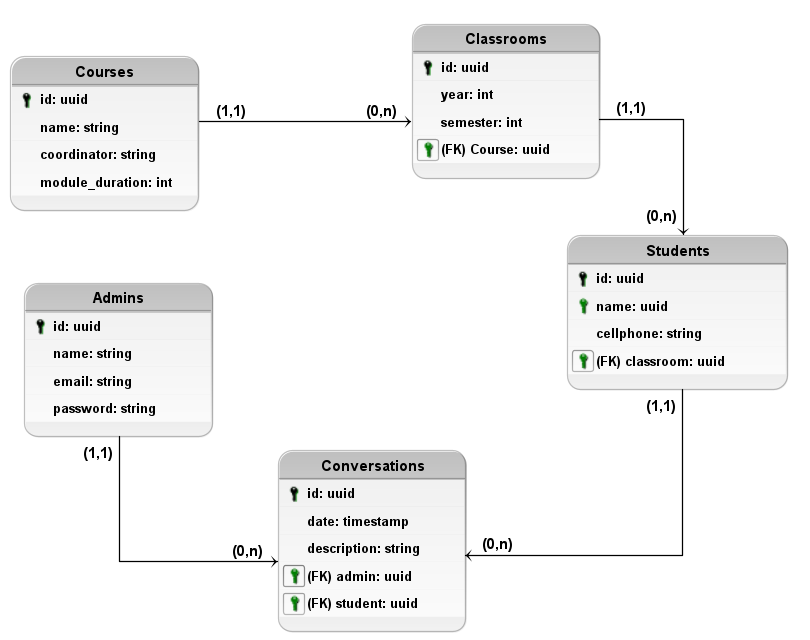
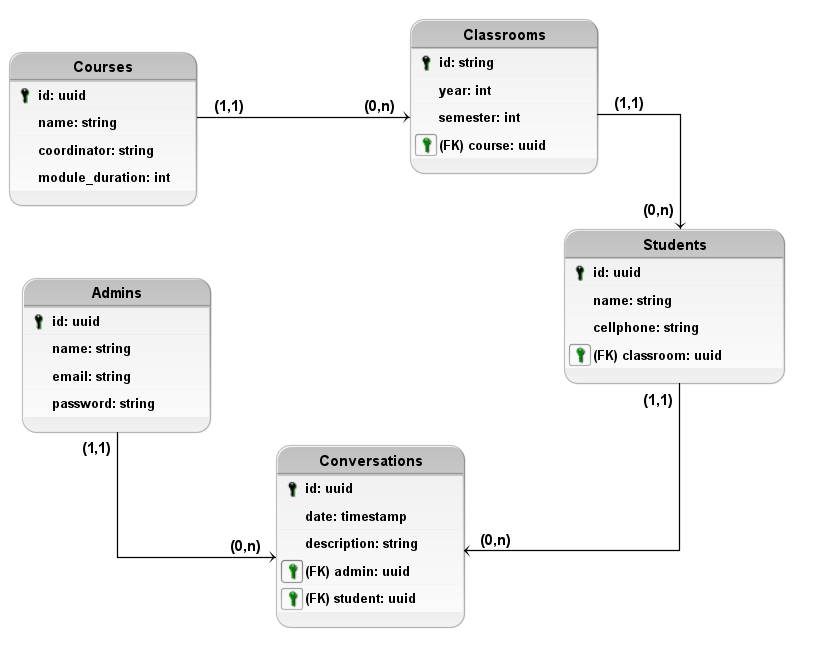
create students

diff --git a/src/modules/courses/useCases/createStudent/CreateStudentUseCase.spec.ts b/src/modules/courses/useCases/createStudent/CreateStudentUseCase.spec.ts
@@ -1,0 +1,44 @@
+import { BuscaAtivaException } from '@errors/BuscaAtivaException';
+import { InMemoryClassroomsRepository } from '@modules/courses/repositories/in-memory/InMemoryClassroomsRepository';
+import { InMemoryStudentsRepository } from '@modules/courses/repositories/in-memory/InMemoryStudentsRepository';
+
+import { CreateStudentUseCase } from './CreateStudentUseCase';
+
+let inMemoryStudentsRepository: InMemoryStudentsRepository;
+let inMemoryClassroomsRepository: InMemoryClassroomsRepository;
+let createStudentUseCase: CreateStudentUseCase;
+
+describe('Create Student Use Case', () => {
+  beforeEach(async () => {
+    inMemoryStudentsRepository = new InMemoryStudentsRepository();
+    inMemoryClassroomsRepository = new InMemoryClassroomsRepository();
+    createStudentUseCase = new CreateStudentUseCase(
+      inMemoryStudentsRepository,
+      inMemoryClassroomsRepository,
+    );
+  });
+
+  it('Should be able to create a new student', async () => {
+    const classroom = await inMemoryClassroomsRepository.create({
+      fk_course: '1234',
+      semester: 2,
+      year: 2020,
+    });
+    const student = await createStudentUseCase.execute({
+      name: 'Giovanni Guarnieri',
+      cellphone: '(15) 123451234',
+      fk_classroom: classroom.id,
+    });
+    expect(student).toHaveProperty('id');
+  });
+
+  it('Should not be able to create a new student with invalid classroom', async () => {
+    expect(async () => {
+      await createStudentUseCase.execute({
+        name: 'Giovanni Guarnieri',
+        cellphone: '(15) 123451234',
+        fk_classroom: '1234',
+      });
+    }).rejects.toBeInstanceOf(BuscaAtivaException);
+  });
+});

diff --git a/src/modules/courses/infra/typeorm/repository/StudentsRepository.ts b/src/modules/courses/infra/typeorm/repository/StudentsRepository.ts
@@ -1,0 +1,45 @@
+import { ICreateStudentDTO } from '@modules/courses/dtos/ICreateStudentDTO';
+import { IStudentsRepository } from '@modules/courses/repositories/IStudentsRepository';
+import { Repository } from 'typeorm';
+
+import { dataSource } from '@shared/infra/typeorm';
+
+import { Student } from '../entities/Student';
+
+class StudentsRepository implements IStudentsRepository {
+  private repository: Repository<Student>;
+  constructor() {
+    this.repository = dataSource.getRepository(Student);
+  }
+
+  async create({ cellphone, fk_classroom, name }: ICreateStudentDTO): Promise<Student> {
+    const student = this.repository.create({ cellphone, fk_classroom, name });
+    await this.repository.save(student);
+    return student;
+  }
+
+  async delete(student_id: string): Promise<void> {
+    await this.repository.delete({ id: student_id });
+  }
+
+  async update(student_id: string, { cellphone, fk_classroom, name }: ICreateStudentDTO):
+    Promise<Student> {
+    const student = this.repository.create({
+      id: student_id, cellphone, fk_classroom, name,
+    });
+    await this.repository.save(student);
+    return student;
+  }
+
+  findById(student_id: string): Promise<Student> {
+    throw new Error('Method not implemented.');
+  }
+  getAll(): Promise<Student[]> {
+    throw new Error('Method not implemented.');
+  }
+  listByClassroomId(): Promise<Student[]> {
+    throw new Error('Method not implemented.');
+  }
+}
+
+export { StudentsRepository };

diff --git a/src/shared/infra/typeorm/migrations/1654782374030-CreateStudents.ts b/src/shared/infra/typeorm/migrations/1654782374030-CreateStudents.ts
@@ -1,0 +1,51 @@
+import { MigrationInterface, QueryRunner, Table } from 'typeorm';
+
+export class CreateStudents1654782374030 implements MigrationInterface {
+  public async up(queryRunner: QueryRunner): Promise<void> {
+    queryRunner.createTable(new Table({
+      name: 'students',
+      columns: [
+        {
+          name: 'id',
+          type: 'uuid',
+          isPrimary: true,
+        },
+        {
+          name: 'name',
+          type: 'varchar',
+        },
+        {
+          name: 'cellphone',
+          type: 'varchar',
+          isNullable: true,
+        },
+        {
+          name: 'fk_classroom',
+          type: 'uuid',
+        },
+        {
+          name: 'created_at',
+          type: 'timestamp',
+          default: 'now()',
+        },
+        {
+          name: 'updated_at',
+          type: 'timestamp',
+          default: 'now()',
+        },
+      ],
+      foreignKeys: [
+        {
+          columnNames: ['fk_classroom'],
+          name: 'FKClassroomStudent',
+          referencedColumnNames: ['id'],
+          referencedTableName: 'classrooms',
+        },
+      ],
+    }));
+  }
+
+  public async down(queryRunner: QueryRunner): Promise<void> {
+    queryRunner.dropTable('students');
+  }
+}

diff --git a/src/modules/courses/repositories/in-memory/InMemoryStudentsRepository.ts b/src/modules/courses/repositories/in-memory/InMemoryStudentsRepository.ts
@@ -1,0 +1,32 @@
+import { ICreateStudentDTO } from '@modules/courses/dtos/ICreateStudentDTO';
+import { Student } from '@modules/courses/infra/typeorm/entities/Student';
+
+import { IStudentsRepository } from '../IStudentsRepository';
+
+class InMemoryStudentsRepository implements IStudentsRepository {
+  private studentsRepository: Student[] = [];
+
+  async create({ cellphone, fk_classroom, name }: ICreateStudentDTO): Promise<Student> {
+    const student = new Student();
+    Object.assign(student, { cellphone, fk_classroom, name });
+    this.studentsRepository.push(student);
+    return student;
+  }
+  delete(student_id: string): Promise<void> {
+    throw new Error('Method not implemented.');
+  }
+  update(student_id: string, data: ICreateStudentDTO): Promise<Student> {
+    throw new Error('Method not implemented.');
+  }
+  findById(student_id: string): Promise<Student> {
+    throw new Error('Method not implemented.');
+  }
+  getAll(): Promise<Student[]> {
+    throw new Error('Method not implemented.');
+  }
+  listByClassroomId(): Promise<Student[]> {
+    throw new Error('Method not implemented.');
+  }
+}
+
+export { InMemoryStudentsRepository };

diff --git a/src/modules/courses/useCases/createStudent/CreateStudentUseCase.ts b/src/modules/courses/useCases/createStudent/CreateStudentUseCase.ts
@@ -1,0 +1,30 @@
+import { BuscaAtivaException } from '@errors/BuscaAtivaException';
+import { Student } from '@modules/courses/infra/typeorm/entities/Student';
+import { IClassroomsRepository } from '@modules/courses/repositories/IClassroomsRepository';
+import { IStudentsRepository } from '@modules/courses/repositories/IStudentsRepository';
+import { inject, injectable } from 'tsyringe';
+
+interface IRequest {
+    name: string;
+    cellphone: string;
+    fk_classroom: string
+}
+
+@injectable()
+class CreateStudentUseCase {
+  constructor(
+        @inject('StudentsRepository') private studentsRepository: IStudentsRepository,
+        @inject('ClassroomsRepository') private classroomsRepository: IClassroomsRepository,
+  ) { }
+
+  async execute({ name, cellphone, fk_classroom }: IRequest): Promise<Student> {
+    const classroom = await this.classroomsRepository.findById(fk_classroom);
+    if (!classroom) {
+      throw new BuscaAtivaException('Classroom not found');
+    }
+    const student = await this.studentsRepository.create({ name, cellphone, fk_classroom });
+    return student;
+  }
+}
+
+export { CreateStudentUseCase };

diff --git a/src/shared/container/index.ts b/src/shared/container/index.ts
@@ -1,8 +1,11 @@
 import { ClassroomsRepository } from '@modules/courses/infra/typeorm/repository/ClassroomsRepository';
 import { CoursesRepository } from '@modules/courses/infra/typeorm/repository/CoursesRepository';
+import { StudentsRepository } from '@modules/courses/infra/typeorm/repository/StudentsRepository';
 import { IClassroomsRepository } from '@modules/courses/repositories/IClassroomsRepository';
 import { ICoursesRepository } from '@modules/courses/repositories/ICoursesRepository';
+import { IStudentsRepository } from '@modules/courses/repositories/IStudentsRepository';
 import { container } from 'tsyringe';
 
 container.registerSingleton<ICoursesRepository>('CoursesRepository', CoursesRepository);
 container.registerSingleton<IClassroomsRepository>('ClassroomsRepository', ClassroomsRepository);
+container.registerSingleton<IStudentsRepository>('StudentsRepository', StudentsRepository);

diff --git a/src/modules/courses/infra/typeorm/entities/Student.ts b/src/modules/courses/infra/typeorm/entities/Student.ts
@@ -1,0 +1,32 @@
+import {
+  Column, CreateDateColumn, Entity, JoinColumn, ManyToOne, PrimaryColumn,
+} from 'typeorm';
+import { v4 as uuidv4 } from 'uuid';
+
+import { Classroom } from './Classroom';
+
+@Entity('students')
+class Student {
+    @PrimaryColumn()
+      id: string;
+    @Column()
+      name: string;
+    @Column()
+      cellphone: string;
+    @ManyToOne(() => Classroom)
+    @JoinColumn({ name: 'fk_classroom' })
+      classroom: Classroom;
+    @Column()
+      fk_classroom: string;
+    @CreateDateColumn()
+      created_at: Date;
+    @CreateDateColumn()
+      updated_at: Date;
+    constructor() {
+      if (!this.id) {
+        this.id = uuidv4();
+      }
+    }
+}
+
+export { Student };

diff --git a/src/modules/courses/useCases/createStudent/CreateStudentController.ts b/src/modules/courses/useCases/createStudent/CreateStudentController.ts
@@ -1,0 +1,15 @@
+import { Request, Response } from 'express';
+import { container } from 'tsyringe';
+
+import { CreateStudentUseCase } from './CreateStudentUseCase';
+
+class CreateStudentController {
+  async handle(request: Request, response:Response): Promise<Response> {
+    const { name, cellphone, fk_classroom } = request.body;
+    const createStudentUseCase = container.resolve(CreateStudentUseCase);
+    const student = await createStudentUseCase.execute({ name, cellphone, fk_classroom });
+    return response.status(201).json(student);
+  }
+}
+
+export { CreateStudentController };

diff --git a/src/modules/courses/repositories/IStudentsRepository.ts b/src/modules/courses/repositories/IStudentsRepository.ts
@@ -1,0 +1,13 @@
+import { ICreateStudentDTO } from '../dtos/ICreateStudentDTO';
+import { Student } from '../infra/typeorm/entities/Student';
+
+interface IStudentsRepository {
+  create(data: ICreateStudentDTO):Promise<Student>
+  delete(student_id:string):Promise<void>
+  update(student_id:string, data: ICreateStudentDTO):Promise<Student>
+  findById(student_id:string):Promise<Student>
+  getAll():Promise<Student[]>
+  listByClassroomId():Promise<Student[]>
+}
+
+export { IStudentsRepository };

diff --git a/src/shared/infra/http/routes/index.ts b/src/shared/infra/http/routes/index.ts
@@ -2,10 +2,12 @@ import { Router } from 'express';
 
 import { classroomsRoutes } from './classrooms.routes';
 import { coursesRoutes } from './courses.routes';
+import { studentsRoutes } from './students.routes';
 
 const router = Router();
 
 router.use('/courses', coursesRoutes);
 router.use('/classrooms', classroomsRoutes);
+router.use('/students', studentsRoutes);
 
 export { router };

diff --git a/src/shared/infra/http/routes/students.routes.ts b/src/shared/infra/http/routes/students.routes.ts
@@ -1,0 +1,10 @@
+import { CreateStudentController } from '@modules/courses/useCases/createStudent/CreateStudentController';
+import { Router } from 'express';
+
+const studentsRoutes = Router();
+
+const createStudentController = new CreateStudentController();
+
+studentsRoutes.post('/', createStudentController.handle);
+
+export { studentsRoutes };

diff --git a/src/modules/courses/dtos/ICreateStudentDTO.ts b/src/modules/courses/dtos/ICreateStudentDTO.ts
@@ -1,0 +1,6 @@
+interface ICreateStudentDTO{
+    name: string;
+    cellphone: string;
+    fk_classroom: string;
+}
+export { ICreateStudentDTO };
